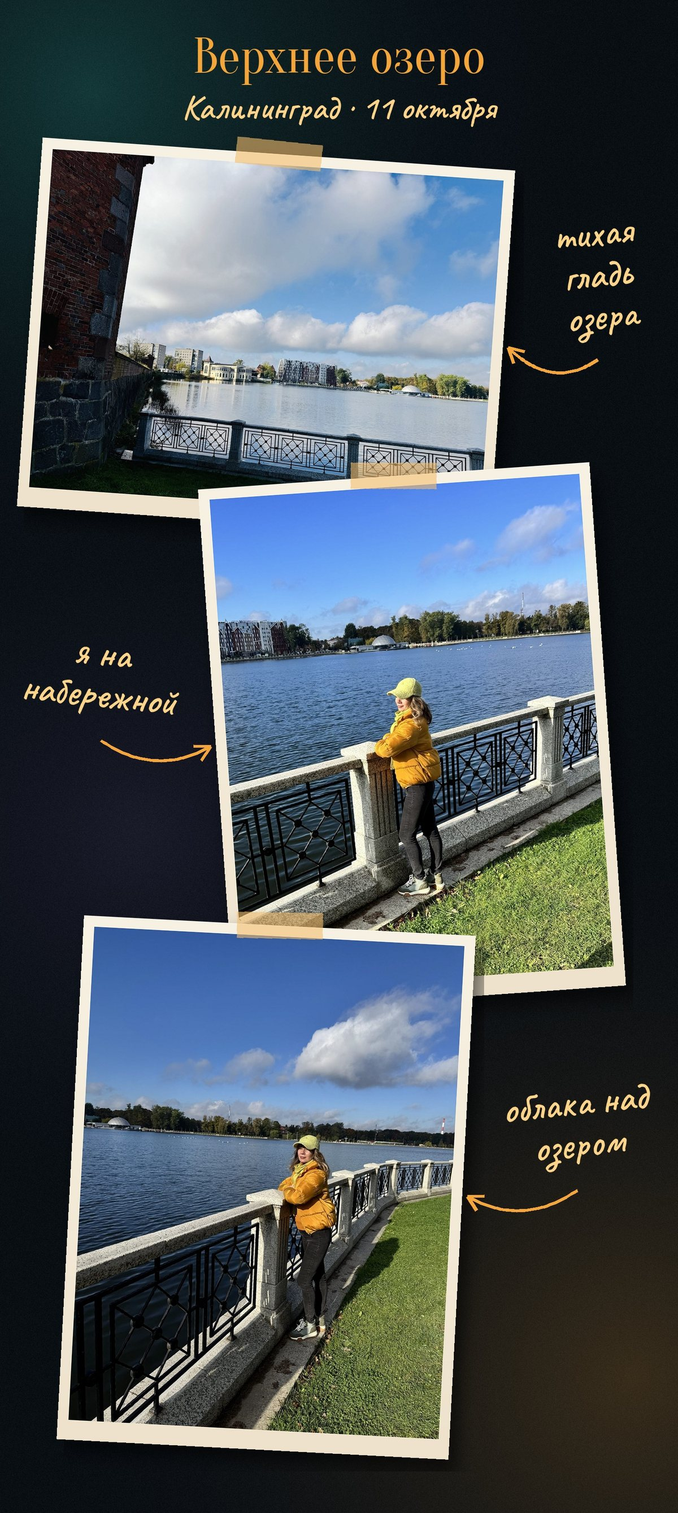
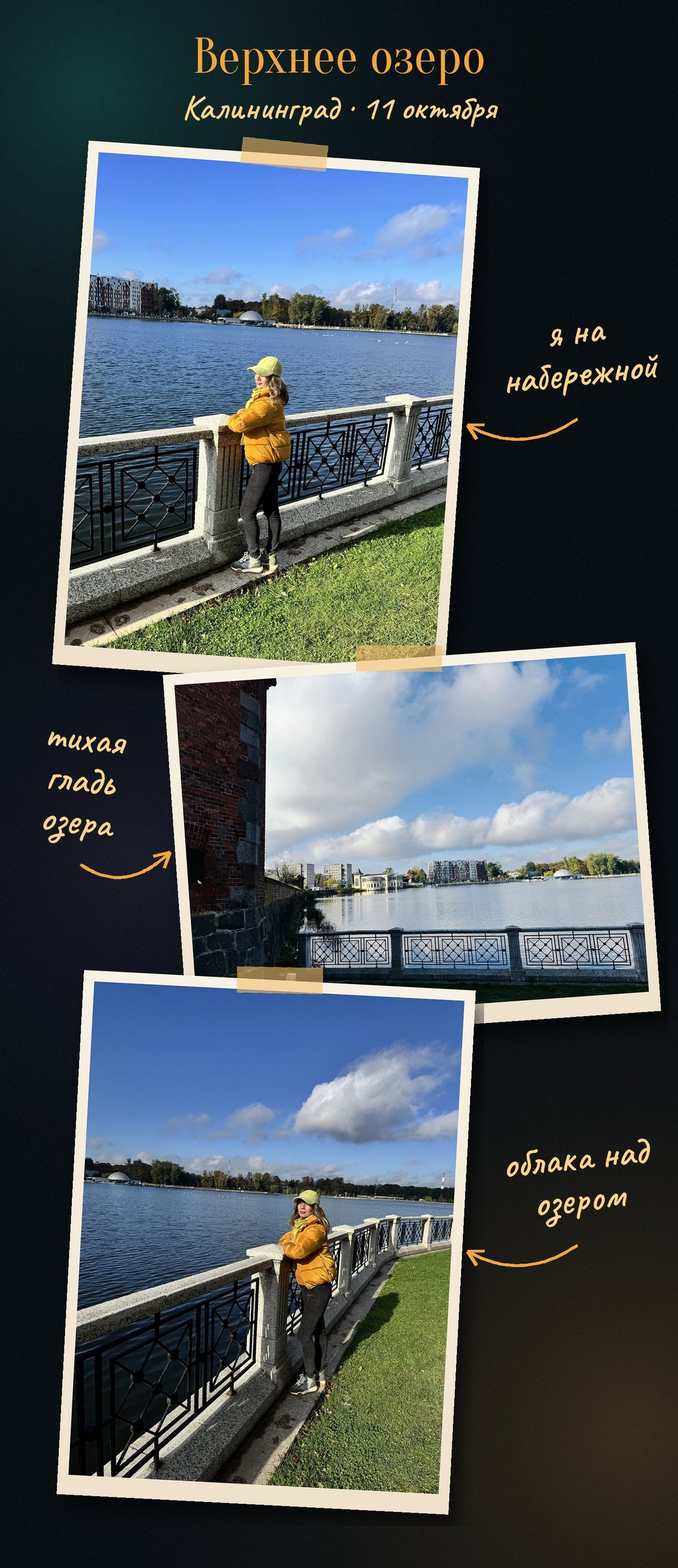
Альбом «Калининград»: страница «Верхнее озеро» — набережная в центре
По просьбе: сверху «я на набережной», в центре вид на озеро и набережную, снизу «облака над озером».

Claude-Session: https://claude.ai/code/session_01BUmNQ2Kk9fTi5P6tnA3gYJ

diff --git a/kaliningrad/album/index.html b/kaliningrad/album/index.html
@@ -642,7 +642,7 @@ body.picking .wrap{padding-bottom:calc(var(--nav-h) + 230px + env(safe-area-inse
  {"id": "d1-08", "day": 1, "type": "video", "src": "photos/d1-08.mp4?v=3", "poster": "photos/d1-08.jpg", "thumb": "photos/t/d1-08.jpg", "w": 720, "h": 1280, "dur": 5.5, "place": "oz", "title": "Шаг за шагом вдоль озера", "date": "2026-10-11", "time": "10:24", "muted": true},
  {"id": "d1-09", "day": 1, "type": "video", "src": "photos/d1-09.mp4?v=2", "poster": "photos/d1-09.jpg", "thumb": "photos/t/d1-09.jpg", "w": 720, "h": 1280, "dur": 5.9, "place": "oz", "title": "Мамуля распахнула руки озеру", "date": "2026-10-11", "time": "10:25", "muted": true},
  {"id": "d1-70", "day": 1, "src": "photos/d1-70.jpg", "thumb": "photos/t/d1-70.jpg", "w": 1200, "h": 2906, "place": "oz", "title": "Мамуля у Верхнего озера", "date": "2026-10-11", "collage": true},
- {"id": "d1-71", "day": 1, "src": "photos/d1-71.jpg", "thumb": "photos/t/d1-71.jpg", "w": 1200, "h": 2679, "place": "oz", "title": "Верхнее озеро", "date": "2026-10-11", "collage": true},
+ {"id": "d1-71", "day": 1, "src": "photos/d1-71.jpg?v=2", "thumb": "photos/t/d1-71.jpg?v=2", "w": 1200, "h": 2775, "place": "oz", "title": "Верхнее озеро", "date": "2026-10-11", "collage": true},
  {"id": "d1-72", "day": 1, "src": "photos/d1-72.jpg?v=2", "thumb": "photos/t/d1-72.jpg?v=2", "w": 1200, "h": 2775, "place": "dona", "title": "Башня Дона", "date": "2026-10-11", "collage": true},
  {"id": "d1-73", "day": 1, "src": "photos/d1-73.jpg?v=2", "thumb": "photos/t/d1-73.jpg?v=2", "w": 1200, "h": 2110, "town": "kgd", "title": "Мамуля и осень", "date": "2026-10-11", "collage": true},
  {"id": "d1-74", "day": 1, "src": "photos/d1-74.jpg", "thumb": "photos/t/d1-74.jpg", "w": 1200, "h": 2906, "place": "amal", "title": "Виллы Амалиенау", "date": "2026-10-11", "collage": true},
